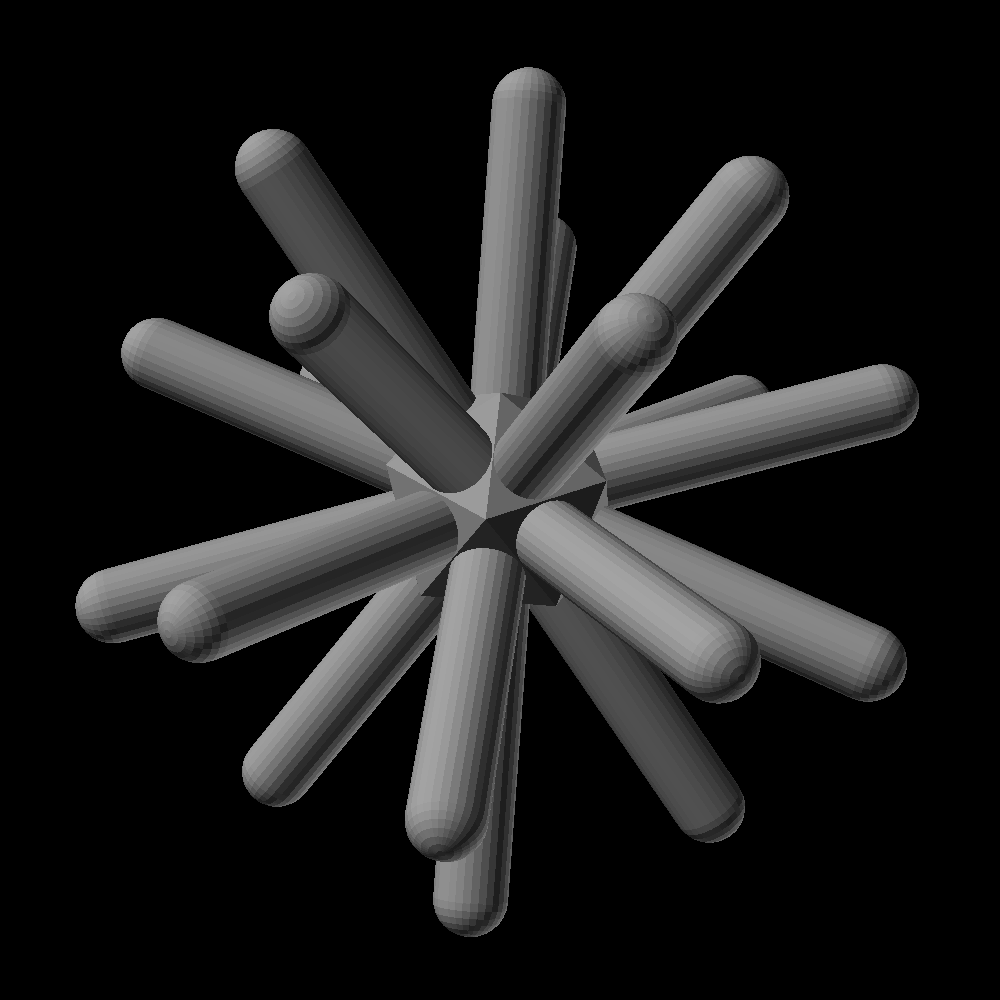
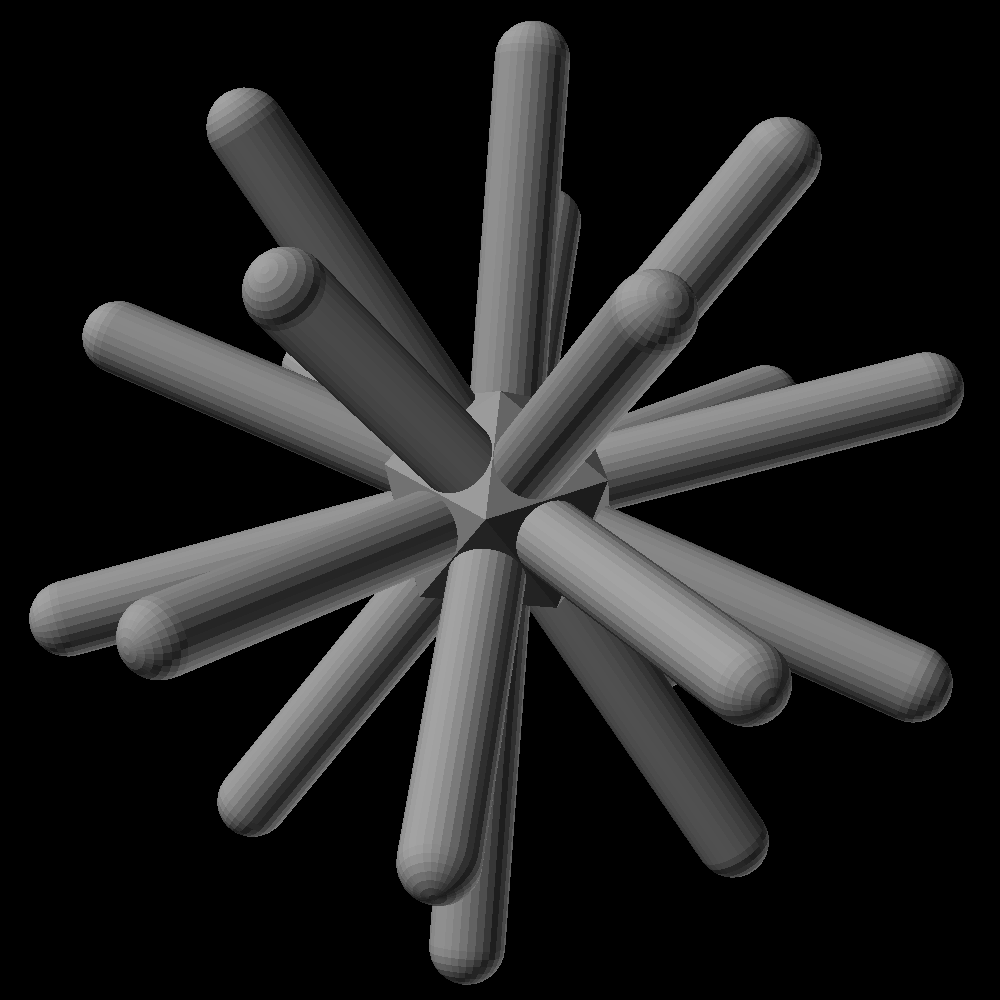
Noca Bell developments
- decided sizes of core and spokehabs
- start of sections for the individual spokehabs
- updated the OpenSCAD model and the image to new dimensions

diff --git a/pages/noca_bell.html b/pages/noca_bell.html
@@ -9,12 +9,133 @@
 
 <img src="../images/noca_bell.webp" class="basics"></img>
 <article class="basics">
-Noca Bell is a habitat in orbit of saturn, known for its cultural diversity artificially maintained by <a href="ITON.html">ITON</a>.
+Noca Bell is a habitat located in the asteroid belt, known for its cultural diversity artificially maintained by <a href="ITON.html">ITON</a>.
 </article>
 <hr>
 
-<h1>Habitat cluster structure</h1>
-<article>shell</article>
+<h1 class="thread">Habitat structure</h1>
+<div class="thread">
+<table class="styled right">
+<tbody><tr><th colspan="2">Noca Bell spokehab design parameters</th></tr>
+<tr>
+  <td>Habitat radius</td>
+  <td id="table_hab_radius">5000 m</td>
+</tr>
+<tr>
+  <td>Habitat length</td>
+  <td id="table_hab_length">50000 m</td>
+</tr>
+<tr>
+  <td class="tip" tip="Amount of mass per area of hull, relevant to radiation shielding. At 10 000 kg/m^2 the habitat hull provides radiation shielding equivalent to earth's atmosphere.">Aerial density</td>
+  <td id="table_hab_aerial_density">10000.000 kg/m<sup>2</sup></td>
+</tr>
+<tr>
+  <td>Habitat mass</td>
+  <td id="table_hab_mass">18849555921538.758 kg</td>
+</tr>
+<tr>
+  <td>Internal volume</td>
+  <td id="table_hab_volume">4450589592585.541 m<sup>3</sup></td>
+</tr>
+<tr>
+  <td>Hull thickness</td>
+  <td id="table_hab_hull_thickness">1.27389 m</td>
+</tr>
+<tr>
+  <td>Provided living area</td>
+  <td id="table_hab_useable_area">1570796326.795 m<sup>2</sup></td>
+</tr>
+</tbody></table>
+<article>
+The habitat is built in a star configuration where a dodecahedral central hub connects 20 O'Neill Cyllinders attached to its faces, typically referred to as spokehabs or subhabitats.
+Most of the structure is built from Eglin steel, with additional lining material whenever atmosphere is present to stop the structure from oxidizing - even without this, just due to its thickness, structural corrosion would not be expected to become a significant factor until at least 600 years after construction.
+<br><br>
+Each spokehab is 10km in diameter and 50km in length, built with 1.274m thick hull, but rotation speeds and atmospheric compositions vary.
+At the maximum gravity of 1gee and atmospheric pressure of 1atm this design provides a safety factor of 1.7.
+</article>
+
+<hr>
+
+<h1>Central hub</h1>
+<article>
+Place of most of the industry and bulk computation.
+The hub is a dodecahedron with an edge length of 17.85km, making it roughly 27km in diameter.
+</article>
+
+<hr>
+
+<h1>Spokehab 1</h1>
+<table class="styled right">
+<!--<tbody><tr><th colspan="2">subhabitat 1 data table</th></tr>
+<tr>
+  <td>Habitat radius</td>
+  <td id="table_hab_radius">5000 m</td>
+</tr>
+<tr>
+  <td>Habitat length</td>
+  <td id="table_hab_length">50000 m</td>
+</tr>
+<tr>
+  <td class="tip" tip="Amount of mass per area of hull, relevant to radiation shielding. At 10 000 kg/m^2 the habitat hull provides radiation shielding equivalent to earth's atmosphere.">Aerial density</td>
+  <td id="table_hab_aerial_density">10000.000 kg/m<sup>2</sup></td>
+</tr>
+<tr>
+  <td>Habitat mass</td>
+  <td id="table_hab_mass">18849555921538.758 kg</td>
+</tr>
+<tr>
+  <td>Internal volume</td>
+  <td id="table_hab_volume">4450589592585.541 m<sup>3</sup></td>
+</tr>
+<tr>
+  <td>Hull thickness</td>
+  <td id="table_hab_hull_thickness">1.27389 m</td>
+</tr>
+<tr>
+  <td>Provided centrifugal gravity</td>
+  <td id="table_hab_gravity">9.807 m/s<sup>2</sup> (1.000g )</td>
+</tr>
+<tr>
+  <td>Internal atmospheric pressure</td>
+  <td id="table_hab_pressure">101325.000 Pa (1.000 atm )</td>
+</tr>
+<tr>
+  <td>Provided living area</td>
+  <td id="table_hab_useable_area">1570796326.795 m<sup>2</sup></td>
+</tr>
+<tr>
+  <td>Time to complete a rotation</td>
+  <td id="table_hab_rotation_time">141.875 s</td>
+</tr>
+<tr>
+  <td class="tip" tip="the number of times that the stress in the habitat would have to increase above what is already caused by its own rotation before it breaks - if the safety factor of a habitat is 3, that would mean the stress that it experiences from its own rotation and rated atmospheric pressure is 3 times less than what is required to break it">Safety factor</td>
+  <td id="table_hab_safety_factor">1.708</td>
+</tr>
+</tbody></table>-->
+<tbody><tr><th colspan="2">spokehab 1 parameters</th></tr>
+<tr>
+  <td>Provided centrifugal gravity</td>
+  <td id="table_hab_gravity">9.807 m/s<sup>2</sup> (1.000g )</td>
+</tr>
+<tr>
+  <td>Internal atmospheric pressure</td>
+  <td id="table_hab_pressure">101325.000 Pa (1.000 atm )</td>
+</tr>
+<tr>
+  <td>Time to complete a rotation</td>
+  <td id="table_hab_rotation_time">141.875 s</td>
+</tr>
+<tr>
+  <td class="tip" tip="the number of times that the stress in the habitat would have to increase above what is already caused by its own rotation before it breaks - if the safety factor of a habitat is 3, that would mean the stress that it experiences from its own rotation and rated atmospheric pressure is 3 times less than what is required to break it">Safety factor</td>
+  <td id="table_hab_safety_factor">1.708</td>
+</tr>
+</tbody></table>
+<article>
+text todo
+
+</article>
+<hr>
+</div>
 
 <h1>Security practices</h1>
 <article>
